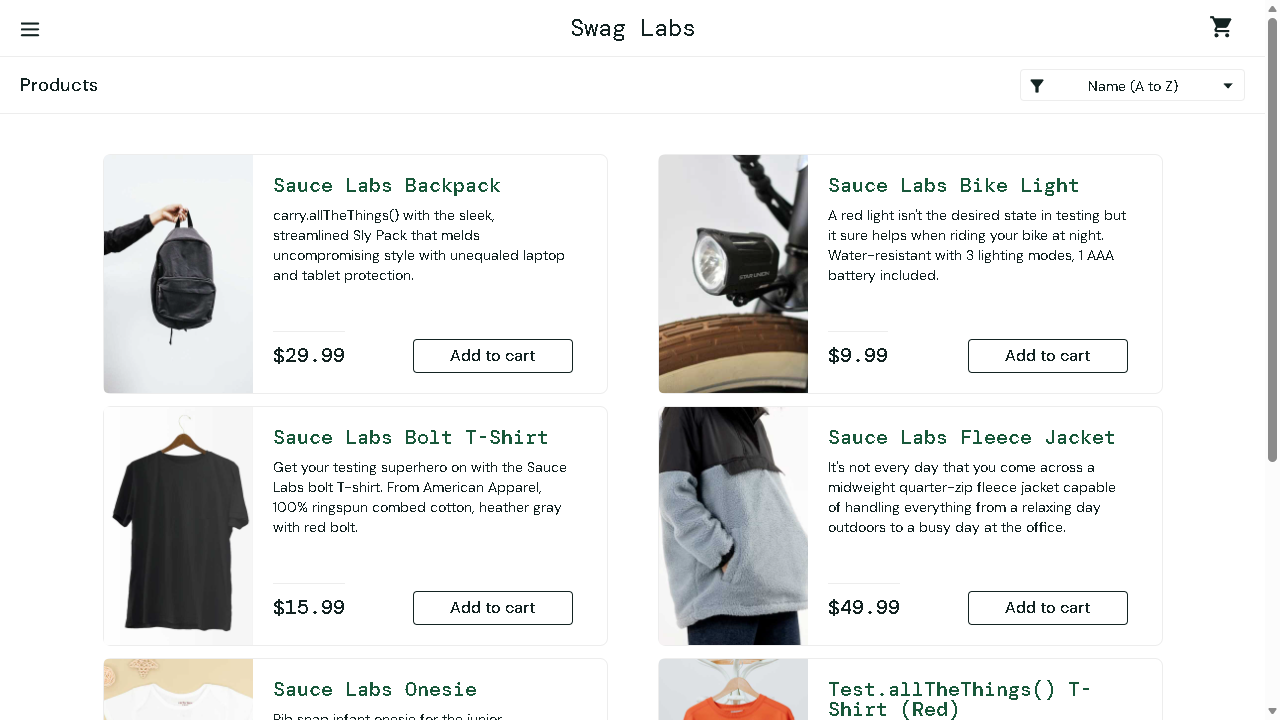
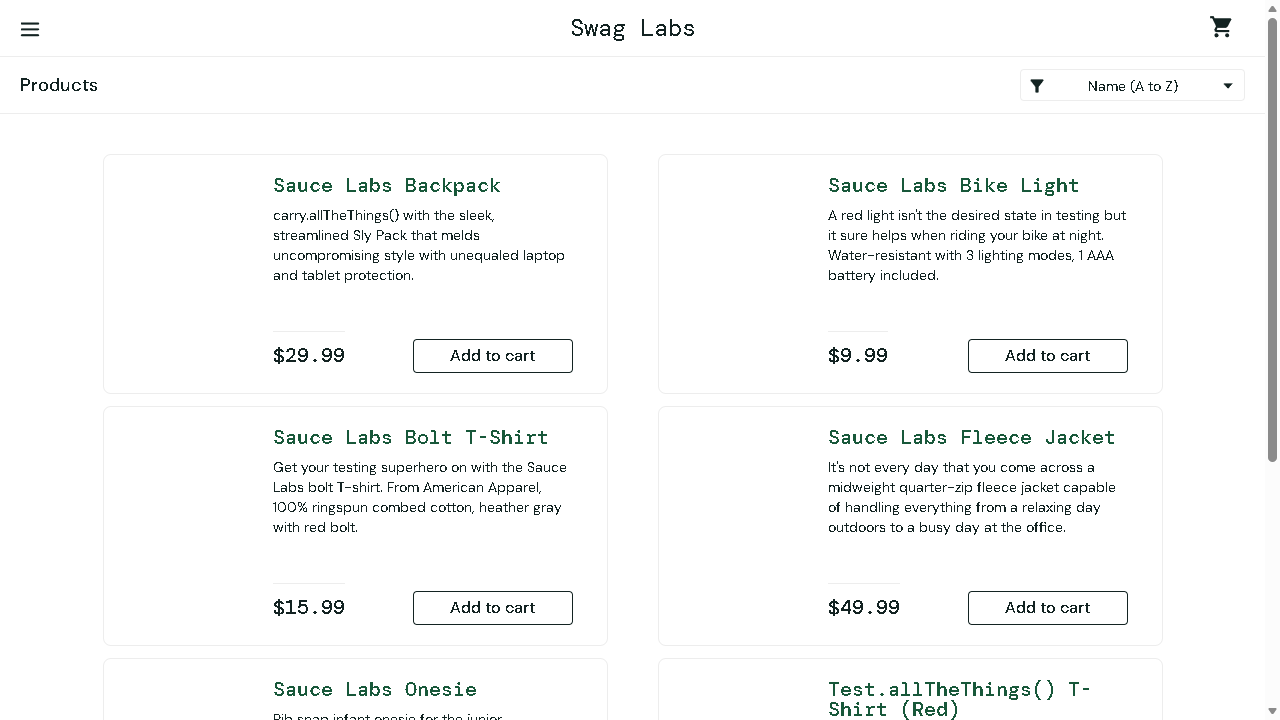
all tests pass so far, now get it to test historical set of runs rather than test suite

diff --git a/tests/test_e2e.py b/tests/test_e2e.py
@@ -1,54 +1,24 @@
 from flakiness_analyser.utils import load_playwright_report, export_csv
 from flakiness_analyser.analyser import FlakeAnalyser
 def test_full_pipeline(tmp_path):
-    input_file = tmp_path / "results.json"
-    output_file = tmp_path / "report.csv"
-    input_file.write_text(
-          """
-    {
-        "runs": [
-            {
-                "tests": [
-                    {
-                        "nodeid": "test_login",
-                        "outcome": "passed",
-                        "rerun": 0
-                    }
-                ]
-            },
-            {
-                "tests": [
-                    {
-                        "nodeid": "test_login",
-                        "outcome": "failed",
-                        "rerun": 0
-                    }
-                ]
-            },
-            {
-                "tests": [
-                    {
-                        "nodeid": "test_login",
-                        "outcome": "passed",
-                        "rerun": 0
-                    }
-                ]
-            }
-        ]
-    }
-    """
-    )
-    runs = load_playwright_report(input_file)
-    analyser = FlakeAnalyser(runs)
+    file1 =tmp_path/ "run1.json"
+    file2 =tmp_path/ "run2.json"
+    file3 = tmp_path/ "run3.json"
+    output = tmp_path / "report.csv"
+
+    file1.write_text(""" { "tests": [ { "nodeid": "test_login", "outcome": "passed", "rerun": 0 } ] } """)
+    file2.write_text(""" { "tests": [ { "nodeid": "test_login", "outcome": "failed", "rerun": 0 } ] } """) 
+    file3.write_text(""" { "tests": [ { "nodeid": "test_login", "outcome": "passed", "rerun": 0 } ] } """)
+    runs = load_playwright_report([file1,file2,file3])
+    analyser =FlakeAnalyser(runs)
     report = analyser.calculate_flakiness()
-    
-    export_csv(report,output_file)
-    content = output_file.read_text()
-    assert "test_login" in content
+    export_csv(report,output)
+
+    content = output.read_text() 
+    assert "test_login" in content 
+    assert "INTERMITTENT" in content 
     assert len(runs) == 3
-    assert report[0]["runs"] == 3 
-    assert report[0]["failures"] == 1
-# come back ot this test
+   
 
 
 

diff --git a/tests/test_utils.py b/tests/test_utils.py
@@ -1,5 +1,6 @@
 from flakiness_analyser.utils import load_json, load_playwright_report,export_csv
 import json
+import pytest
 
 def test_load_json(tmp_path):
     file = tmp_path / "results.json"
@@ -9,8 +10,9 @@ def test_load_json(tmp_path):
 
 def test_load_playwright_report(tmp_path):
     file = tmp_path / "results.json"
+
     file.write_text(
-         """
+        """
         {
             "tests": [
                 {
@@ -21,9 +23,10 @@ def test_load_playwright_report(tmp_path):
             ]
         }
         """
-
     )
-    runs = load_playwright_report(file)
+
+    runs = load_playwright_report([file])
+
     assert len(runs) == 1
     assert runs[0]["results"][0]["name"] == "test_login"
     assert runs[0]["results"][0]["status"] == "passed"
@@ -45,3 +48,44 @@ def test_export_csv(tmp_path):
     content = file.read_text()
     assert "test_login" in content
     assert "FLAKY" in content
+
+def test_load_invalid_json(tmp_path):
+    file = tmp_path / "report.csv"
+    file.write_text("this is not valid json")
+    with pytest.raises(json.JSONDecodeError):
+        load_json(file)
+
+
+def test_load_multiple_playwright_reports(tmp_path):
+    file1 = tmp_path / "run1.json"
+    file2 = tmp_path / "run2.json"
+
+    file1.write_text("""
+    {
+        "tests": [
+            {
+                "nodeid": "test_login",
+                "outcome": "passed",
+                "rerun": 0
+            }
+        ]
+    }
+    """)
+
+    file2.write_text("""
+    {
+        "tests": [
+            {
+                "nodeid": "test_login",
+                "outcome": "failed",
+                "rerun": 0
+            }
+        ]
+    }
+    """)
+
+    runs = load_playwright_report([file1, file2])
+
+    assert len(runs) == 2
+    assert runs[0]["results"][0]["status"] == "passed"
+    assert runs[1]["results"][0]["status"] == "failed"

diff --git a/run_tests_and_analyse.py b/run_tests_and_analyse.py
@@ -2,15 +2,15 @@ import subprocess
 from flakiness_analyser.analyser import FlakeAnalyser
 from flakiness_analyser.utils import load_json, load_playwright_report,export_csv
 
-ECOMMERCE_PYTEST = r"../ecommerce app/venv/Scripts/pytest.exe"
-
-subprocess.run([
-     ECOMMERCE_PYTEST,
-    "../ecommerce app/tests",
-    "--json-report",
-    "--json-report-file=reports/test_results.json"
+ECOMMERCE_PYTEST = r"../testanalyser/venv/Scripts/pytest.exe"
+for i in range(3):
+    subprocess.run([
+        ECOMMERCE_PYTEST,
+        "../testanalyser/tests",
+        "--json-report",
+        "--json-report-file=reports/test_results.json"
 ])
-runs = load_playwright_report("reports/test_results.json")
+runs = load_playwright_report(["reports/test_results.json"])
 analyser = FlakeAnalyser(runs)
 report = analyser.calculate_flakiness()
 print("\n=== FLAKINESS REPORT ===\n")

diff --git a/flakiness_analyser/utils.py b/flakiness_analyser/utils.py
@@ -9,20 +9,24 @@ def load_json(file_path):
 
     return json.loads(content)
 
-def load_playwright_report(file_path):
-    data = load_json(file_path)
+def load_playwright_report(file_paths):
     runs = []
-    for run in data.get("runs",[]):
+
+    for filepath in file_paths:
+        data = load_json(filepath)
+
         results = []
-        for test in run.get("tests",[]):
+
+        for test in data.get("tests", []):
             results.append({
-             "name": test["nodeid"],
-            "status": test["outcome"],
-            "retries": test.get("rerun")
-        })
+                "name": test["nodeid"],
+                "status": test["outcome"],
+                "retries": test.get("rerun")
+            })
+
         runs.append({"results": results})
+
     return runs
-      
                  
 
 def export_csv(report,filename):
